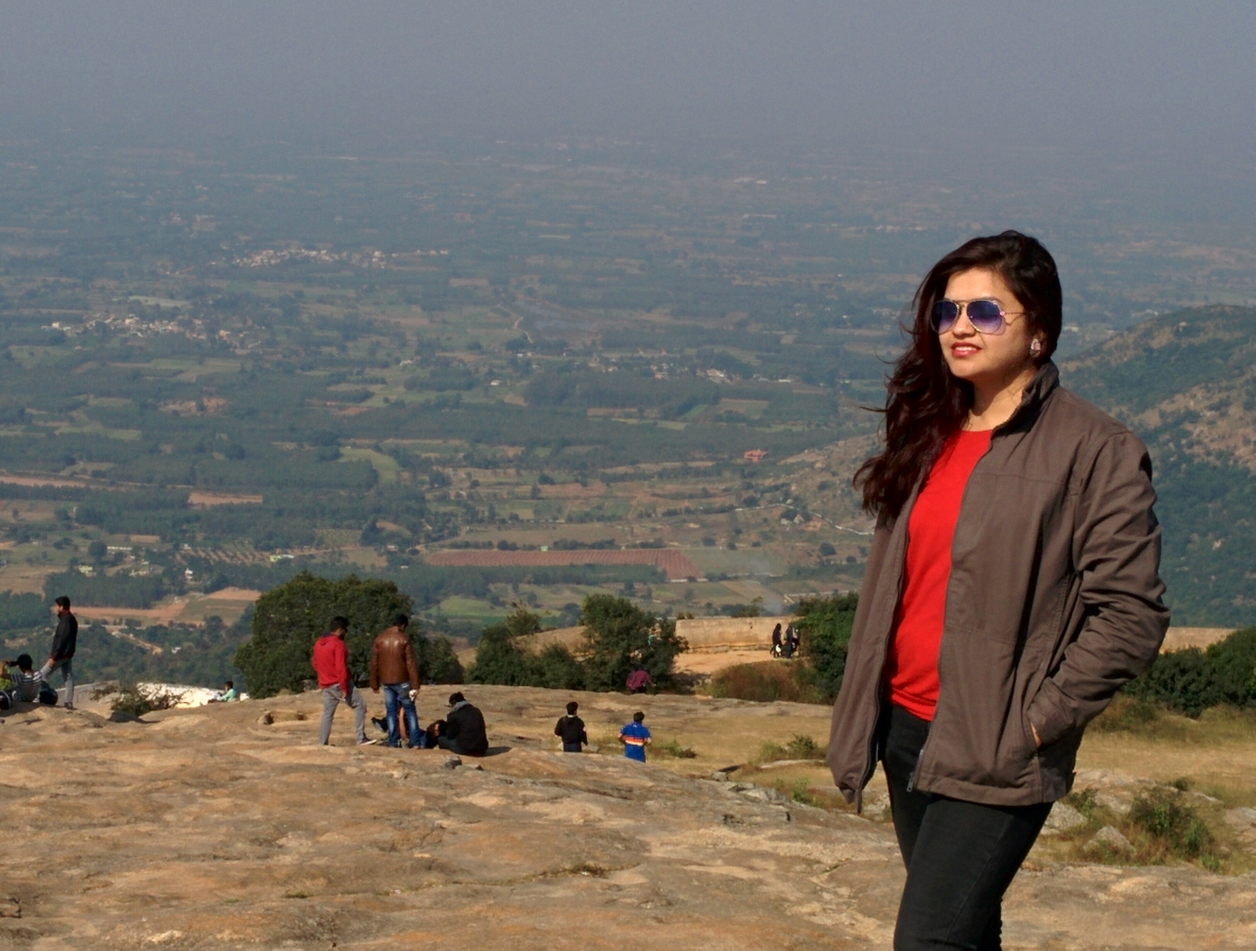
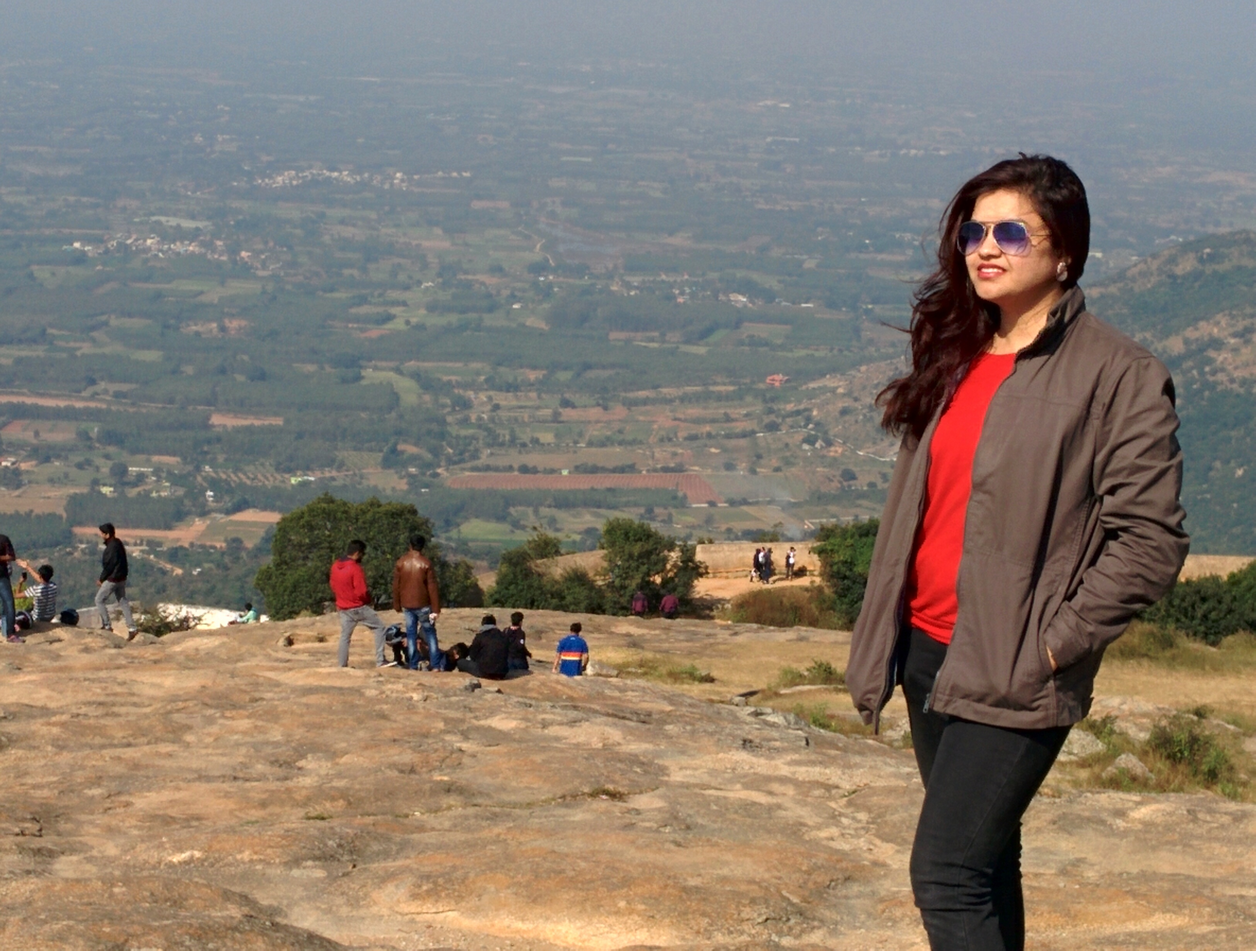
profile pic added and background image changed

diff --git a/css/aboutMe.css b/css/aboutMe.css
@@ -1,6 +1,6 @@
 .landing-container{
     min-height: 100vh;
-    background: url("../assets/images/bg-img2.jpg ");
+    background: url("../assets/images/bg-img5.jpg ");
     background-attachment: scroll;
     width: 100%;
     background-repeat: no-repeat;
@@ -47,6 +47,15 @@
 .nav-title{
     padding: 10px;
     font-size: 24px;
+    position: relative;
+}
+.profile-pic-mini{
+    height: 50px;
+    width: 50px;
+    border-radius: 82px;
+    position: absolute;
+    top: 3px;
+    margin-left: 10px;
 }
 .nav-container{
     color:#359ba7;

diff --git a/index.html b/index.html
@@ -49,7 +49,7 @@
         <nav class="navbar scrollHeader">
             <div class="container-fluid nav-container">
                 <div class="navbar-header nav-title">
-                  <a href="#">Bhavya Sinha</a>
+                  <a href="#">Bhavya Sinha</a><span><img class="profile-pic-mini" src="assets/images/profile_pic.jpg" alt=""></span>
                 </div>
                 <ul class="nav navbar-nav nav-contents">
                   <li class="active"><a href="#about-container">About</a></li>
